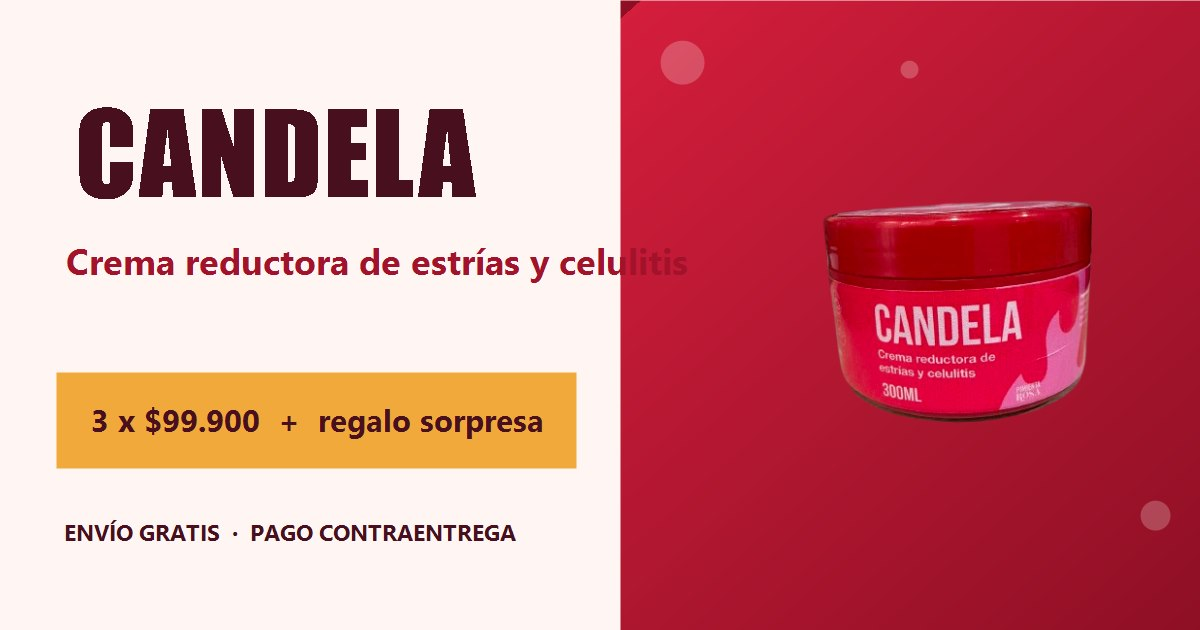
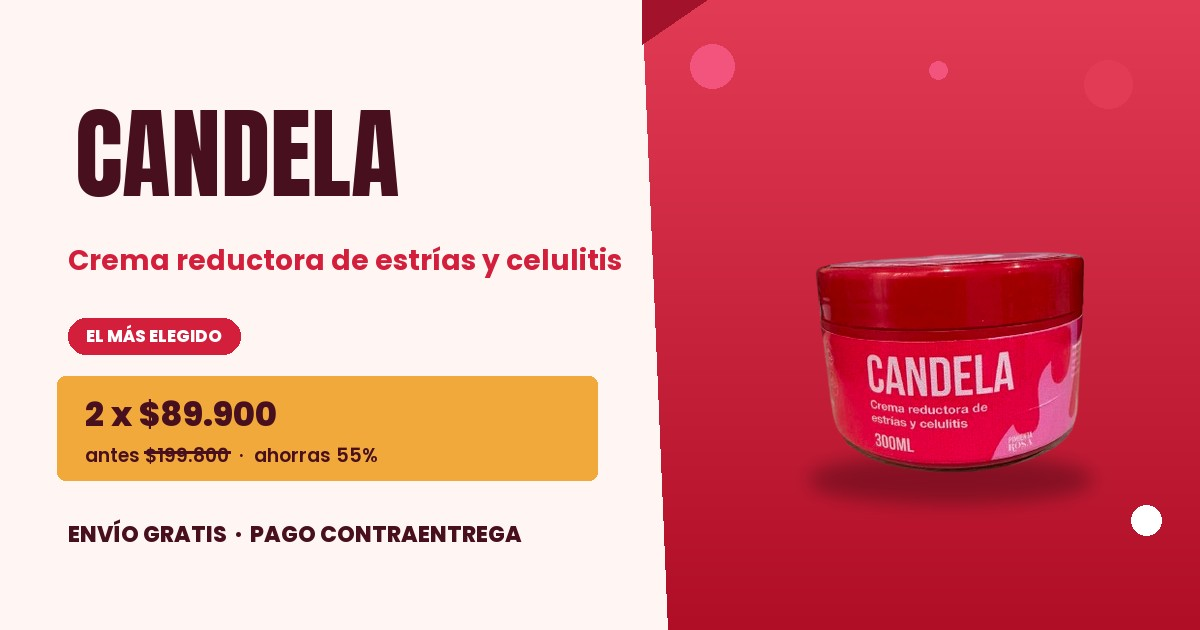
og:image regenerada con oferta del pack de 2 (ancla) + cache-bust v2

diff --git a/index.html b/index.html
@@ -10,11 +10,11 @@
 <meta property="og:type" content="product">
 <meta property="og:locale" content="es_CO">
 <meta property="og:url" content="https://ikib2c.github.io/candela/">
-<meta property="og:image" content="https://ikib2c.github.io/candela/assets/img/og-image.jpg">
+<meta property="og:image" content="https://ikib2c.github.io/candela/assets/img/og-image.jpg?v=2">
 <meta property="og:image:width" content="1200">
 <meta property="og:image:height" content="630">
 <meta name="twitter:card" content="summary_large_image">
-<meta name="twitter:image" content="https://ikib2c.github.io/candela/assets/img/og-image.jpg">
+<meta name="twitter:image" content="https://ikib2c.github.io/candela/assets/img/og-image.jpg?v=2">
 <link rel="canonical" href="https://ikib2c.github.io/candela/">
 <meta name="theme-color" content="#D31E3C">
 <meta name="facebook-domain-verification" content="na5l9ce6z12yzpcr864sl1istuho6w" />

diff --git a/brief_branding_CANDELA.md b/brief_branding_CANDELA.md
@@ -213,8 +213,10 @@ actúa como ancla aspiracional y cierra el CTA final (coincide con los anuncios
   correspondencia y correo de contacto para el bloque "identificación del responsable"
   de los T&C; número o estado de la Notificación Sanitaria Obligatoria (NSO) ante INVIMA
   si se quiere mostrar explícitamente.
-- **Pendiente de diseño:** regenerar la og:image (1200×630) con la oferta del pack de 2
-  ($199.800 → $89.900) para alinearla con la nueva estrategia de anclaje del héroe.
+- **og:image (1200×630) regenerada (nov 2026):** alineada con el anclaje — pill roja
+  "EL MÁS ELEGIDO", caja oro con "2 x $89.900", "antes $199.800" tachado y
+  "ahorras 55%", tarro real frontal sobre panel rojo con degradado y círculos.
+  og:image y twitter:image usan `?v=2` para invalidar la caché de Meta/X.
 - **Número de WhatsApp configurado:** `573147247260` (57 + 314 724 7260), definido en
   la variable `WHATSAPP_TIENDA` al inicio de `main.js`. Todos los pedidos del
   formulario llegan ahí; cámbiala ahí si cambia el número.
@@ -226,7 +228,7 @@ actúa como ancla aspiracional y cierra el CTA final (coincide con los anuncios
   InitiateCheckout y Purchase; GA4 view_item, add_to_cart, begin_checkout y purchase
   (con items y transaction_id); los mismos eventos se empujan al dataLayer de GTM.
 - SEO/social: canonical + Open Graph (og:image de 1200×630 generada con el tarro real
-  y la oferta héroe) + Twitter card + JSON-LD Product + **JSON-LD FAQPage** (9 preguntas).
+  y la oferta del pack de 2, ver punto 6) + Twitter card + JSON-LD Product + **JSON-LD FAQPage** (9 preguntas).
   Keywords de alto volumen integradas en title, meta description, H1/H2, FAQ y alts:
   "crema para estrías", "estrías rojas y blancas", "estrías postparto", "crema anticelulítica",
   "celulitis/piel de naranja", "crema reafirmante", "flacidez", "efecto calor", "pago contraentrega".
